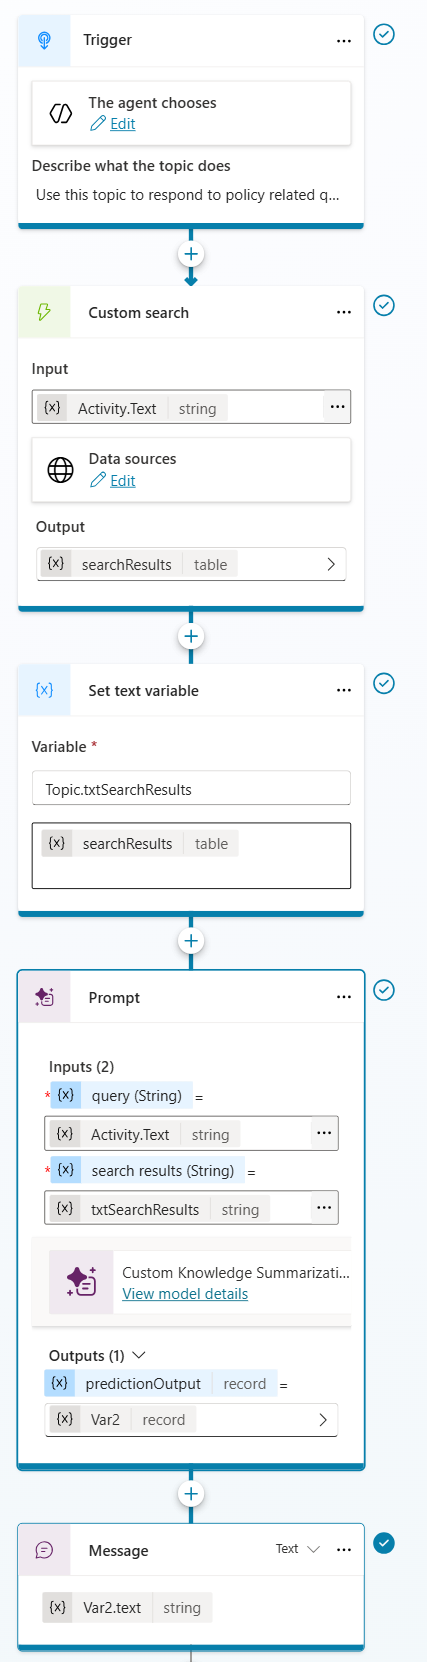
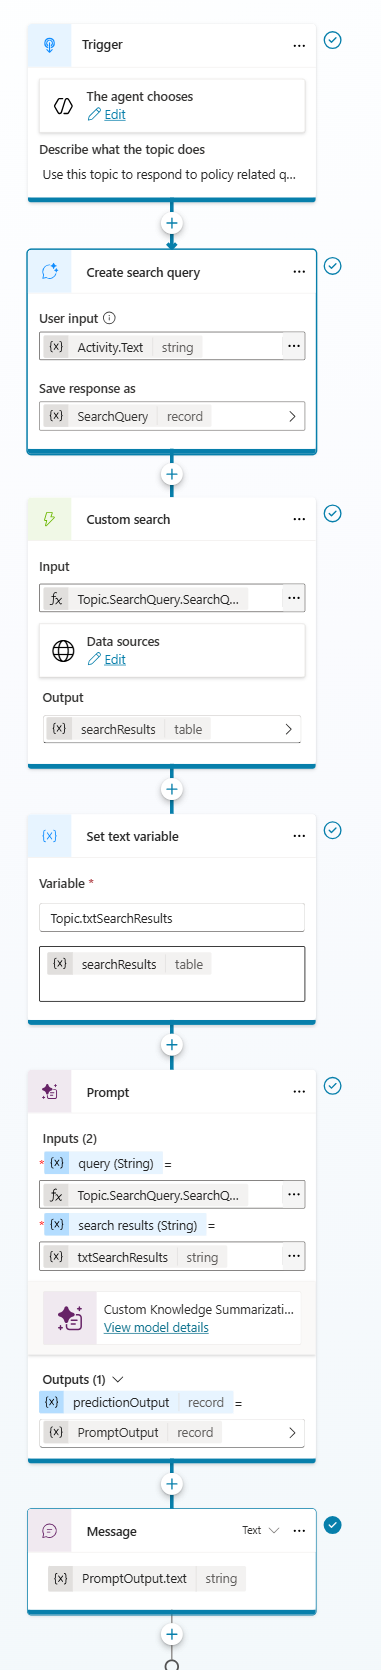
Updates based on Adi's comments and suggestions.
Updates based on Adi's comments and suggestions.

diff --git a/_posts/2026-01-23-copilot-studio-defeating-oversummarization.md b/_posts/2026-01-23-copilot-studio-defeating-oversummarization.md
@@ -1,0 +1,197 @@
+---
+layout: post
+title: "Defeating Oversummarization in AI Agents: How to Deliver Exact Content from Knowledge Sources"
+date: 2026-01-23 12:00:00 +0100
+categories: [copilot-studio, knowledge, rag]
+tags: [generative-ai, summarization, knowledge-sources, custom-search]
+description: Learn three methods to return exact, unsummarized content from Copilot Studio knowledge sources when precision matters more than simplification.
+author: dbellingeri
+image:
+  path: /assets/posts/defeat-over-summarization/header.png
+  alt: "GenAI agents delivering precise content from knowledge sources"
+  no_bg: true
+---
+
+GenAI agents are great at simplifying complex information, but sometimes they simplify too much! In many situations, such as customer facing insurance benefits details or employee facing HR policies, summarization can weaken carefully reviewed and legally approved content. When users need precise and unchanged information, the last thing you want is an AI system rewriting or condensing your source material.
+
+Fortunately, Copilot Studio offers ways to return exact excerpts from your knowledge sources so users receive accurate, unabridged information in the form that was originally approved.
+
+Before we dive into how to get exact unsummarized excerpts from agent knowledge, let's start with an understanding of how RAG works within Copilot Studio:
+
+![RAG Pipeline](/assets/posts/defeat-over-summarization/rag-pipeline.png){: .shadow w="700" h="400"}
+_The RAG pipeline in Copilot Studio_
+
+In the Information Retrieval step (step 3), the user's optimized query is used to find matching information within the Knowledge available to the agent. This information is processed in the Summarization step (step 4) to synthesize the information across potentially many knowledge sources into a concise and legible answer to the user's query. This includes ensuring the response adheres to agent instructions including those regarding response formatting, tone, emojis etc...
+
+Since we can't just delete the Summarization step (Step 4) out of the RAG pattern in Copilot Studio I'll show you 3 methods that use specific instructions / prompt verbiage that @Adi Leibowitz graciously shared with me to achieve our goal of getting verbatim details out of Copilot Studio knowledge.
+
+## Three Methods to Defeat Oversummarization
+
+1. Using Custom Search over Knowledge within a Topic with an AI Prompt
+2. Purely using Agent Instructions
+3. Using Agent Instructions + AI Prompt
+
+In all three of these methods I'm using Generative Mode, Claude Sonnet 4.5 as the agent model, web search is turned off, and general knowledge is turned off. All three agents are have the same three benefits policy knowledge sources on SharePoint loaded using the unstructured data (Dataverse Sync) SharePoint Knowledge method.
+
+## Method 1: Using Custom Search over Knowledge within a Topic with an AI Prompt
+
+This method follows a three-step flow: rewrite the user’s query with conversation context (Generate a Search Query), retrieve knowledge via custom search (Perform a Custom Search), and use an AI prompt to process the results and return an unsummarized response.
+
+### Agent Setup
+
+![Prompt in Topic Setup](/assets/posts/defeat-over-summarization/prompt_in_topic_setup.png){: .shadow w="700" h="400"}
+_Overview of the prompt in topic approach_
+
+The first step in building this method is to create a custom topic. I left the trigger as-is and added a clear description to help the agent understand when to call the topic. This is still useful even though I’m directly calling the topic in my agent instructions.
+
+Because we want to incorporate information from the conversation history into the user’s query for knowledge retrieval, I start with the Generate a Search Query node. This is a topic-only tool that rewrites the user’s query by incorporating relevant conversation context to make the query more specific.
+
+For example, if the user was discussing parental leave with the agent and then followed up with “Who is eligible for leave?”, the Generate a Search Query node would rewrite the query to include “parental” before it is sent into the RAG pattern. Since the agent has the prior conversation context, it can infer what type of leave the user means. Without that context, the agent might respond with information about multiple types of leave, which may not be relevant. Use the Activity.Text variable if you do not want the system to add any conversation context to the user's query before performing the knowledge search. 
+
+More information about this node can be found here: https://learn.microsoft.com/en-us/microsoft-copilot-studio/authoring-create-search-query.
+
+![Generate a Search Query](/assets/posts/defeat-over-summarization/custom_summarization_generate_search_query.png){: .shadow w="700" h="400"}
+_Adding the Generate a Search Query node_
+
+Next, I pass the output from the “Generate a Search Query” node into the “Perform a Custom Search” action node to search specific knowledge sources. More information about the Custom Search node in topics can be found here: https://learn.microsoft.com/en-us/microsoft-copilot-studio/authoring-create-custom-search.
+
+![Custom Search Setup](/assets/posts/defeat-over-summarization/custom_search_setup.png){: .shadow w="700" h="400"}
+_Setting up a custom search topic_
+
+![Custom Search Properties](/assets/posts/defeat-over-summarization/custom_search_properties.png){: .shadow w="700" h="400"}
+_Configure the custom search properties_
+
+Then, I take the Custom Search output (which contains the raw knowledge results) and transform the text output into a table using a “Set variable value” node. This produces the structured input required for the AI prompt.
+
+![Custom Summarization Prompt in Topic](/assets/posts/defeat-over-summarization/custom_summarization_prompt_in_topic.png){: .shadow w="700" h="400"}
+_AI Prompt configured to process search results_
+
+The AI Prompt is configured to use the output of the "Generate a Search Query" node as the user's query as well as the text version of the custom knowledge search results as inputs. The prompt instructions that tell the LLM not to summarize and to include a Markdown block with the exact details from the Custom Search output are critical to getting the behavior we want.
+
+**AI Prompt Instructions:**
+
+```
+respond to the user's [query] based on [search results], make sure to quote search results verbatim, don't summarize or omit. When quoting from search results, clearly indicate quoted text using a markdown code block
+
+#user query:
+##search results:
+#Do not include too much surrounding text outside of where the answer was found in the original text. Include citations with links to the knowledge source where the information was found and call out the page and section the user should look to find the details. Do not summarize anything in your response.
+```
+The complete topic flow will look like the below image. The final node in the topic sends a direct message to the user using the output variable from the AI Prompt. This is sent without allowing the orchestrator to summarize anything.
+
+![Custom Summarization Topic](/assets/posts/defeat-over-summarization/custom_summarization_topic.png){: .shadow w="700" h="400"}
+_Complete topic flow_
+
+You can use the YAML code below to help replicate the topic in your own environment. Note that you will need to update the knowledge sources, variables, AI Prompt, etc.
+
+```yaml
+kind: AdaptiveDialog
+modelDescription: Use this topic to respond to policy related questions.
+beginDialog:
+  kind: OnRecognizedIntent
+  id: main
+  intent: {}
+  actions:
+    - kind: CreateSearchQuery
+      id: createSearchQuery_wgVXZ8
+      userInput: =System.Activity.Text
+      result: Topic.SearchQuery
+
+    - kind: SearchKnowledgeSources
+      id: searchKnowledgeSources_6OjHDa
+      fileSearchDataSource:
+        searchFilesMode:
+          kind: DoNotSearchFiles
+
+      knowledgeSources:
+        kind: SearchSpecificKnowledgeSources
+        knowledgeSources:
+          - copilots_header_catdab_CustomSummarization.topic.HR_Leave_Policiesdocx_qcetvrjil6L33_EqPpixl
+          - copilots_header_catdab_CustomSummarization.topic.ContosoHRpoliciesdocx_bnliFX_ntlqYReELDdHO_
+          - copilots_header_catdab_CustomSummarization.topic.ContosoBenefitsdocx_B2trrvYgmHXRy33bvECmH
+
+      result: Topic.searchResults
+      userInput: =Topic.SearchQuery.SearchQuery
+
+    - kind: SetTextVariable
+      id: myNode
+      variable: Topic.txtSearchResults
+      value: "{Topic.searchResults}"
+
+    - kind: InvokeAIBuilderModelAction
+      id: invokeAIBuilderModelAction_Q0KiHA
+      input:
+        binding:
+          query: =Topic.SearchQuery.SearchQuery
+          search_20results: =Topic.txtSearchResults
+
+      output:
+        binding:
+          predictionOutput: Topic.PromptOutput
+
+      aIModelId: c8e2722a-9720-4820-8c34-56b99367b309
+
+    - kind: SendActivity
+      id: sendActivity_hE5Ik6
+      activity: "{Topic.PromptOutput.text}"
+
+inputType: {}
+outputType: {}
+```
+
+### Results
+
+Success! The agent consistently extracts the exact wording from the knowledge sources without summarizing. It also identifies where the information appears in the documents and includes the expected citation links.
+
+![Prompt in Topic Test Pane](/assets/posts/defeat-over-summarization/prompt_in_topic_testpane.png){: .shadow w="700" h="400"}
+_Test results showing exact content extraction_
+
+## Method 2: Instructions Only
+In this method relies on the power of Copilot Studio's [Generative Orchestration](https://learn.microsoft.com/en-us/microsoft-copilot-studio/guidance/generative-orchestration) functionality to return exact content without summarization. The only setup we need to do for this method is to add our knowledge sources and add the key prompt instructions from Method 1 as our overall agent instructions.
+
+### Agent Setup
+
+![Instructions Only Setup](/assets/posts/defeat-over-summarization/instructionsonly_setup.png){: .shadow w="700" h="400"}
+_Agent instructions without custom topics_
+
+### Results
+
+Success! (usually). This method was less consistent than the other two and your mileage may vary with different agent model settings. I had some really good results like the one below, and others where it did mmostly as it was asked, but also included a summary of the parental leave policies below the exact text from knowledge.
+
+![Instructions Only Test Pane](/assets/posts/defeat-over-summarization/instructionsonly_testpane.png){: .shadow w="700" h="400"}
+_Test results using instructions only_
+
+## Method 3: Instructions with Prompt in Instructions
+
+This method combines the first two methods using instructions along with an AI prompt (no topics) to achieve the same goal. In the agent instructions I'm telling the agent what to use as inputs for the AI Prompt
+
+### Agent setup
+
+![Prompt in Instructions Setup](/assets/posts/defeat-over-summarization/prompt_in_instructions_setup.png){: .shadow w="700" h="400"}
+_Configure AI prompt to be called from instructions_
+
+The AI Prompt itself is the same as in Method 1. However, since this one is being called as a tool directly by the orchestrator, I've set the Completion/After running settings to send a specific message to the user when the AI prompt is completed. This is essentially the same as the last step in the topic to directly send the output from the AI Prompt to the user without letting the orchestrator summarize anything.
+
+![Custom Summarization Prompt](/assets/posts/defeat-over-summarization/custom_summarization_prompt.png){: .shadow w="700" h="400"}
+_AI Prompt configuration_
+
+### Results
+
+Success again! The agent consistently extracts the exact wording from the knowledge sources without summarizing. It also identifies where the information appears in the documents and includes the expected citation links.
+
+![Prompt in Instructions Test Pane](/assets/posts/defeat-over-summarization/prompt_in_instructions_testpane.png){: .shadow w="700" h="400"}
+_Test results showing consistent exact content extraction_
+
+## Which method is the best?
+
+Definition of best depends on what you care the most about. For me this means answer quality and consistency. 
+
+For the best consistency and granular control within a more complex agent, Method 1 was the the most consistent. While this method is the most complicated to setup, we have full control over the query generation, custom search pattern, and the AI Prompt. 
+
+Method 2 was somewhat inconsistent even with this test case being the only thing in the instructions. Additional instructions may make it even less consistent.
+
+Method 3 resulted in simmlar quality and concistency as Method 1, but since we can't currently set variables in instructions, I'm relying on telling the orchestrator what to use for inputs to the Prompt. While this worked in my limited testing, I could see this having consistency issues. We also have less granular control over the query and search outputs compared to Method 1. 
+
+Response and instruction adherence will vary with different models so you may experience different results using different models. Additionally, you'll need to consider response speed and agent cost into what you consider is best for you. 
+
+Have you dealt with a similar need to defeat oversummarization in your agents? What approaches have worked for you?
